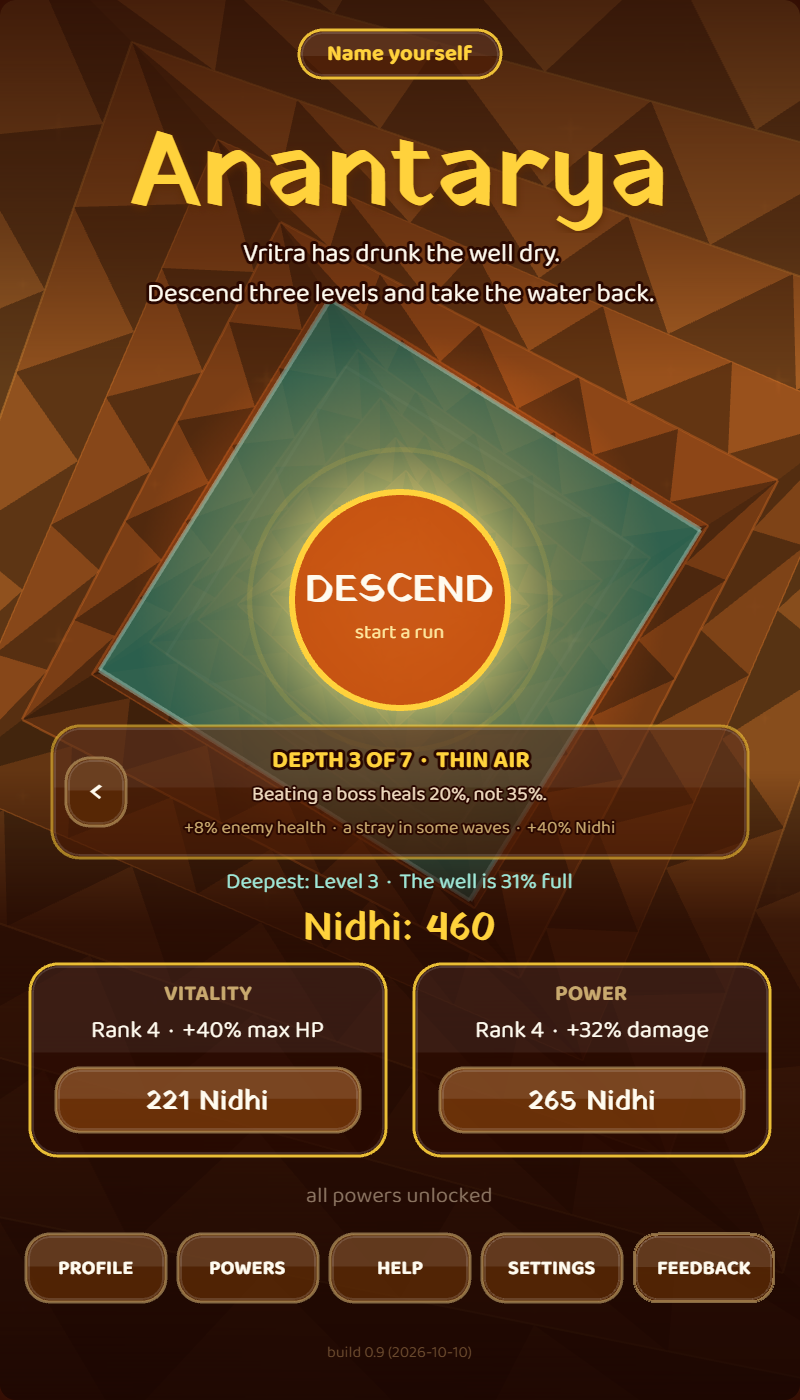
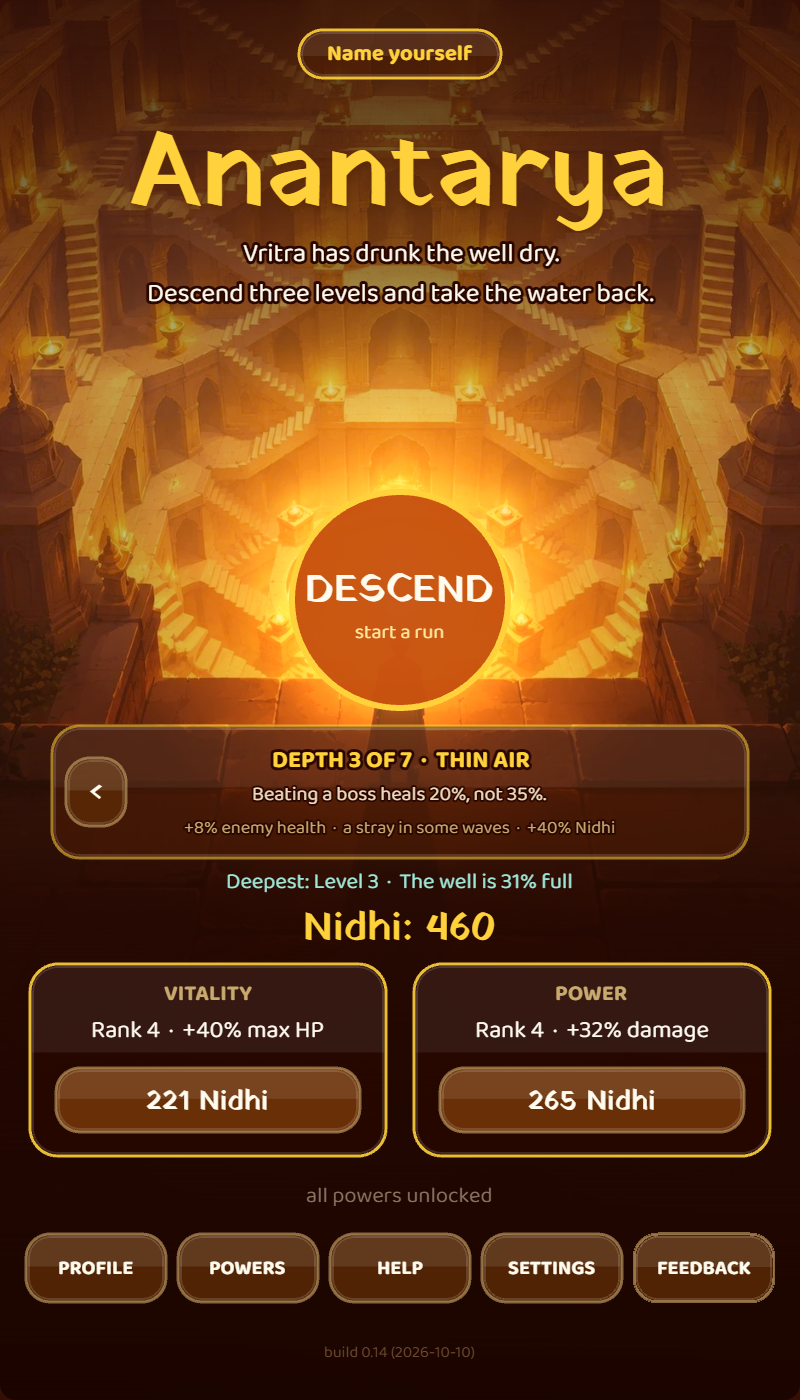
The title screen has its picture: fit 2
The founder's picture of a stepwell, made with ChatGPT, is the title
screen's backdrop. "Use fit 2": it lies behind today's layout, moved up
so its glowing pool is under DESCEND, and fades into the dark below the
ledge. The embers and the glow still move over it. If the file is
missing, the shaft drawn in code shows as before.

The store page's title screenshot is retaken, the zip is rebuilt (90
files, 2.7 MB), and the itch.io AI disclosure for graphics is now yes.

98 checks, passing on the game page and on the folder built for itch.io.
Build 0.14.

diff --git a/game/loot-chase-v0.1.html b/game/loot-chase-v0.1.html
@@ -569,7 +569,7 @@ const Loader = (() => {
 })();
 Loader.setProgress(0.04);
 
-const BUILD = '0.13 (2026-10-10)';
+const BUILD = '0.14 (2026-10-10)';
 
 // Feedback (requirements 2.21): a text box whose contents are emailed to the developer.
 // A static page cannot send mail, so the message goes through FormSubmit, a free relay
@@ -2213,6 +2213,9 @@ const FLOORS = FLOOR_SETS[new URLSearchParams(location.search).get('floors')] ||
 
 // The title screen's view down the shaft: nested square tiers shrinking toward a glowing
 // floor. `period` is the time to sink one tier; `twist` turns each tier a little more.
+// The title picture: how far it is moved up so its pool lies under the way in, and where
+// below the ledge it fades into the dark.
+const TITLE_ART = { up: 100, fadeFrom: 545, fadeOver: 60 };
 const WELL = { cy: 300, size: 540, k: 0.8, tiers: 17, steps: 5, period: 5200, twist: 0.07, shade: [1.0, 0.8, 0.6, 0.86] };
 const WELL_STOPS = [[0, 244, 184, 104], [2.5, 232, 150, 66], [5, 204, 108, 38], [7.5, 158, 68, 20], [9.5, 124, 44, 10], [11.5, 190, 78, 14], [13.5, 255, 166, 52], [16, 255, 240, 176]];
 function wellColour(depth, shade) {
@@ -2296,6 +2299,7 @@ class LootScene extends Phaser.Scene {
       this.load.spritesheet(`${name}-walk`, `assets/chars/${name}-walk.png`, { frameWidth: WALK.cell, frameHeight: WALK.cell });
     }
     this.load.image('bg_stars', 'assets/bg-stars.png');
+    this.load.image('title_art', 'assets/title-art.jpg');
     for (const [key, def] of Object.entries(SFX)) {
       for (const f of def.files || [key]) this.load.audio(f, `assets/sfx/${f}.wav`);
     }
@@ -4483,6 +4487,7 @@ class LootScene extends Phaser.Scene {
   // the descent never ends.
   drawWell(time) {
     const g = this.menu.g, cx = W / 2, cy = WELL.cy;
+    if (!g.visible) { this.menu.embers.tilePositionY += 0.5; return; }     // the title picture stands in for the drawn shaft
     const t = (time / WELL.period) % 1, sway = Math.sin(time / 4300) * 0.06;
     const corners = (r, a) => {
       const c = Math.cos(a) * r, sn = Math.sin(a) * r;
@@ -4792,6 +4797,21 @@ class LootScene extends Phaser.Scene {
     const veil = this.add.image(cx, H / 2, 'menuveil').setDisplaySize(W, H).setDepth(10.5);
     this.uiObjects.push(g, embers, glow, veil);
     this.menu = { g, embers };
+    // The title picture (requirements 2.21; the founder's own, 2026-10-10, "fit 2"): a stepwell
+    // seen from above, lit by lamps. It is moved up so that its glowing pool lies under the
+    // way in, and below the ledge it fades into the dark the menu sits on. The embers and the
+    // glow still move over it. If the file is missing, the shaft drawn in code shows instead.
+    if (this.textures.exists('title_art')) {
+      g.setVisible(false);
+      const art = this.add.image(cx, H / 2 - TITLE_ART.up, 'title_art').setDepth(10.1);
+      art.setDisplaySize(W, W * art.height / art.width);
+      const fade = this.add.graphics().setDepth(10.15);
+      fade.fillGradientStyle(FORGE.deep, FORGE.deep, FORGE.deep, FORGE.deep, 0, 0, 1, 1);
+      fade.fillRect(0, TITLE_ART.fadeFrom, W, TITLE_ART.fadeOver);
+      fade.fillStyle(FORGE.deep, 1);
+      fade.fillRect(0, TITLE_ART.fadeFrom + TITLE_ART.fadeOver, W, H);
+      this.uiObjects.push(art, fade);
+    }
     this.tweens.add({ targets: glow, scale: glow.scale * 1.14, alpha: 0.78, duration: 1600, yoyo: true, repeat: -1, ease: 'Sine.easeInOut' });
     this.drawWell(this.time.now);
 

diff --git a/tools/build-itch.py b/tools/build-itch.py
@@ -28,7 +28,7 @@ PAGE = "loot-chase-v0.1.html"
 # folders stops the build, so a stray file can never ride along unnoticed.
 TAKE = [("assets/chars", ".png"), ("assets/sfx", ".wav"), ("vendor", ".js"), ("vendor", ".md"),
         ("vendor/fonts", ".woff2"), ("vendor/fonts", ".txt")]
-SINGLE = ["assets/bg-stars.png"]
+SINGLE = ["assets/bg-stars.png", "assets/title-art.jpg"]
 # Addresses the page may name. The first is the feedback form's mail relay (requirements
 # 2.22); the second is the name of the SVG format inside a drawn background, not a request.
 ALLOWED = ["https://formsubmit.co/ajax/", "http://www.w3.org/2000/svg"]

diff --git a/docs/requirements.md b/docs/requirements.md
@@ -52,6 +52,7 @@ Kept so a reversal is never mistaken for drift or an error.
 | 2026-10-05 | **A boss shows when it can be hurt.** §2.6. | The testing round (`design-document.md` §1.4) named the first boss as the likeliest place to lose a new player: he took 12% damage unless the phase bar matched a small glow at his feet, and one tip explained it. The founder chose all four proposals: the state drawn on the boss, a countdown, a first Gatekeeper who arrives open, and a softer penalty on level 1, which they set at 30%. |
 | 2026-10-05 | **Seven depths, with perks as the rewards.** §2.30. | The same round found nothing to earn by winning. The founder chose seven depths of the well as the spine, each harder than the last, and perks earned from bosses and depths as the rewards. This settles the "seven worlds" question as depths of the one well, and builds the perks pinned as P8. A daily descent was pinned for after the itch.io launch (P9). |
 | 2026-10-05 | **Characters move; Vritra is drawn.** §2.31. | The cast is stock art with no animation frames. The founder chose motion made in code and a serpent drawn in code for now, will make the characters themselves with image tools (`docs/character-art-guide.md`), and is not ready to commission an artist. |
+| 2026-10-10 | **The title screen has its picture.** §2.21. | The founder made a picture with ChatGPT (a stepwell seen from above, lamps, a glowing pool) and was shown it behind the real title screen three ways. "Use fit 2 for the title screen." |
 | 2026-10-10 | **Tribute's summons quicken too; records are kept; badges are pinned.** §2.26, §2.37. | Told that toughness alone never threatens a player who is not touched, and asked three things, the founder answered: "1. Yes" (add the climb in speed), "2. Yes" (pin the cosmetics), "3. Yes start recording. Maybe let's design the badges tab separately in the profile section where we can keep simple badges for each kind of achievement." The cosmetics are pinned as P12 and the badges tab as P13 (`design-document.md`); neither is built. |
 | 2026-10-10 | **Tribute pays without end, and grows heavier.** §2.26, §2.36. | The first fix for a boss kept alive stopped his summons paying at tribute 15. The founder: "I don't agree with the circling a boss while killing his summons stops paying after a while. That could increase the farming potential for players looking to build before descending to the next level." Offered three ways, they picked the first: pay for as long as the boss lives, with the danger climbing. They added that this is a mechanic learnt by playing, as in Destiny 2, and that cosmetic drops for the profile screen could one day be hung on it; that idea is not pinned. |
 | 2026-10-10 | **Free rides are hunted for and closed.** §2.36. | The founder: "Also try to figure out some gameplay pseudo-cheats. For example: if a player keeps moving around the edges of the wall he stays alive even without much effort. I am not saying this is in the game right now but it could be. We need to game test this thinking of such possibilities and fix them." It was in the game. Two were real and are closed (the runner, and a boss kept alive for what he summons), three small ones are closed with them, and the rest were tried and found shut. |
@@ -515,6 +516,8 @@ Launch track L7. Each load shows **one glossary card**: the word large in Devana
 The last line states what exists today and nothing more: a full well ends the game (§2.23). What each win unlocks on the way is in §2.30. Two glossary cards, Seven depths and Perks, were added on 2026-10-05. The loader is checked to fit a sideways phone and a small phone with its tallest glossary card showing.
 
 ### 2.21 Title screen (2026-10-02)
+**Since build 0.14 (2026-10-10) the backdrop is a picture** (`game/assets/title-art.jpg`, `TITLE_ART`): the founder's own, made with ChatGPT, of a stepwell seen from above. It is laid across the screen and moved up by 100 so that its glowing pool lies under DESCEND, and from 545 down it fades into the dark that the menu sits on ("fit 2" of the three shown, `concept/title-2026-10-10-fit-*.png`). Everything else on the screen is where it was. The embers and the glow under DESCEND still move over it. The shaft drawn in code, described below, is no longer seen, and with it went the pool that rose as water was won; the line "The well is N% full" still says it. If the picture's file is missing the drawn shaft shows instead. The picture is AI-generated, which the itch.io page must say (`docs/itch-page.md` §4).
+
 Launch track L2, first design. **One screen, not two:** the title, the way into a run and the two upgrades share it, because a title in front of a separate hub would put three taps between a player and a fight. It replaces the plain menu that was drawn over the arena.
 
 - **Backdrop:** the view straight down the stepwell shaft. Seventeen square tiers of stairs shrink toward a glowing floor, each turned slightly more than the last, and the whole shaft sinks forever (a tier every 5.2 s) with embers rising.
@@ -909,4 +912,4 @@ Kept in the save from build 0.13 on, and shown nowhere yet. They exist so that t
 
 ### 2.20 Automated checks
 - **`tools/playtest-bot.js`** plays complete runs with game logic only (about 80x real time) and records per-sector balance figures, errors and leaked objects (§2.14). Since 2026-10-10 a profile can name a `style`, a player who does not play (§2.36), and **`tools/lazy-players.mjs`** runs those beside the one that does.
-- **`tools/smoke-test.mjs`** (2026-10-02) loads the game in a private, muted, headless Chrome with a throwaway profile; clicks through the loading screen; checks the fonts, the first teaching pause, the HUD, the abandon prompt, the death and extract payouts and the sector-banner cleanup; checks that all three music tracks load and that each sector paints its own floor; measures every text on the how-to, settings, Powers and title screens against its panel; checks the goal on the title screen, "Level 1 of 3" and the near-miss line, kills the final boss and confirms the win, the water and the full payout; checks that all name packs have the same entries and that the plain pack shows no Sanskrit (every boon card included); clears a wave and checks the boon pick (three cards, the fight frozen, a stray tap ignored, one reroll, the next wave), the numbers a set of boons promise, and Read the Slam on a live slam; opens the feedback dialog, types the game's own keys into it and confirms the message is posted (to a stub, so nothing is sent); checks the gold ring and arc that show on Kiran while Hold Your Ground and Read the Slam are live, and that the Boons tab lists six boons per metal clear of the Back button; checks that a cleared wave earns a boon without pausing, that the + button and the + key open the pick, that a pick can be put off without a free reroll, and that panels are frosted; checks power for gear, boons and a sleeping weapon boon, the HUD number, and the profile's stats; builds 300 waves and checks the six shapes, the no-repeat rule and the gentle first-ever opening; makes a boss summon and checks the tribute count, the extra item, the second pick and the pick before the choice screen; checks the well on the loading screen for a new save and for a save with water; checks that the first Gatekeeper arrives open, that a resisting boss says so, counts down and takes 30% on level 1 and 12% below, and that Vritra is the drawn serpent; wins a depth and checks the water, the next depth on the title screen, that a depth already won pays no water, that depth 2 is faster and richer and depth 3 heals less; checks that perks show on the profile, that two are worn and chosen by tapping, that each does what it says, and that an older save is carried into the depths, both when read in play and when the page loads with one; checks that every character but Vritra has a walk sheet, that figures keep their size, and that Kiran and an enemy step through their walk frames and stand when they stop; runs four bot profiles, one without boons; checks that the hero's health bar sits over his head; checks that the carved floors are the default and that the classic set still paints when the address asks for it; checks that an unnamed hero is "Hero" with the old name nowhere on screen, that a nickname is cleaned, saved and shown on the title screen, the profile, the victory and the loading card, and that a long one is shrunk to fit; checks the health each depth adds, that strays come at the promised rate from depth 2 and never at depth 1, and that the tribute and satchel tips wait for level 2; checks that by default the camera never moves; reloads with `?arena=wide` and checks the arena's size, that the camera follows the hero and stops at the walls, that the HUD and every panel stay on the screen, where enemies and bosses come in, the arrow to a boss out of sight, that a real tap is read where it lands, the further reach of slams and the larger waves there, and three bot runs there; reloads with `?arena=fixed` and checks that the old arena is still one screen with the camera still and nothing made harder, with two bot runs; checks the teaching pauses (§2.35): that a first run stops to teach moving once the banner has gone, that the fight is frozen and the panel is pinned to the screen and clear of what it points at, that a tap already on its way is ignored, that lessons keep apart, that the other tips never stop the fight, that the taught slam takes twice as long, and that skip, replay, the Settings switch and the bot each do what they should, and that a replayed slam lesson does not slow the slam twice; checks the free rides (§2.36): that a runner is run down after six seconds, that the pack sprints only while he runs and stops when it catches him, that fighting, heading for the nearest enemy, Hexers and bosses never start it, that tribute pays for as long as a boss lives and grows 12% heavier and 4% faster for every five past the gold boon, that records are kept and an older save gains them empty, and that a Life Gem taken off leaves the hero on 1; watches every address the page fetches from start to finish, and checks that none is on the internet and none is missing; and saves screenshots. 97 checks. Since 2026-10-07 the whole test runs in the wide arena, which is the default. `node tools/smoke-test.mjs`. Since 2026-10-10 it takes the page to test as a second argument, so the same checks run against the folder built for itch.io: `node tools/smoke-test.mjs "" dist/itch/index.html`. It needs Chrome or Edge and Node 22+, and no packages. It exists so testing never plays sound on, or takes over, the machine someone is working on.
+- **`tools/smoke-test.mjs`** (2026-10-02) loads the game in a private, muted, headless Chrome with a throwaway profile; clicks through the loading screen; checks the fonts, the first teaching pause, the HUD, the abandon prompt, the death and extract payouts and the sector-banner cleanup; checks that all three music tracks load and that each sector paints its own floor; measures every text on the how-to, settings, Powers and title screens against its panel; checks the goal on the title screen, "Level 1 of 3" and the near-miss line, kills the final boss and confirms the win, the water and the full payout; checks that all name packs have the same entries and that the plain pack shows no Sanskrit (every boon card included); clears a wave and checks the boon pick (three cards, the fight frozen, a stray tap ignored, one reroll, the next wave), the numbers a set of boons promise, and Read the Slam on a live slam; opens the feedback dialog, types the game's own keys into it and confirms the message is posted (to a stub, so nothing is sent); checks the gold ring and arc that show on Kiran while Hold Your Ground and Read the Slam are live, and that the Boons tab lists six boons per metal clear of the Back button; checks that a cleared wave earns a boon without pausing, that the + button and the + key open the pick, that a pick can be put off without a free reroll, and that panels are frosted; checks power for gear, boons and a sleeping weapon boon, the HUD number, and the profile's stats; builds 300 waves and checks the six shapes, the no-repeat rule and the gentle first-ever opening; makes a boss summon and checks the tribute count, the extra item, the second pick and the pick before the choice screen; checks the well on the loading screen for a new save and for a save with water; checks that the first Gatekeeper arrives open, that a resisting boss says so, counts down and takes 30% on level 1 and 12% below, and that Vritra is the drawn serpent; wins a depth and checks the water, the next depth on the title screen, that a depth already won pays no water, that depth 2 is faster and richer and depth 3 heals less; checks that perks show on the profile, that two are worn and chosen by tapping, that each does what it says, and that an older save is carried into the depths, both when read in play and when the page loads with one; checks that every character but Vritra has a walk sheet, that figures keep their size, and that Kiran and an enemy step through their walk frames and stand when they stop; runs four bot profiles, one without boons; checks that the hero's health bar sits over his head; checks that the carved floors are the default and that the classic set still paints when the address asks for it; checks that an unnamed hero is "Hero" with the old name nowhere on screen, that a nickname is cleaned, saved and shown on the title screen, the profile, the victory and the loading card, and that a long one is shrunk to fit; checks the health each depth adds, that strays come at the promised rate from depth 2 and never at depth 1, and that the tribute and satchel tips wait for level 2; checks that by default the camera never moves; reloads with `?arena=wide` and checks the arena's size, that the camera follows the hero and stops at the walls, that the HUD and every panel stay on the screen, where enemies and bosses come in, the arrow to a boss out of sight, that a real tap is read where it lands, the further reach of slams and the larger waves there, and three bot runs there; reloads with `?arena=fixed` and checks that the old arena is still one screen with the camera still and nothing made harder, with two bot runs; checks the teaching pauses (§2.35): that a first run stops to teach moving once the banner has gone, that the fight is frozen and the panel is pinned to the screen and clear of what it points at, that a tap already on its way is ignored, that lessons keep apart, that the other tips never stop the fight, that the taught slam takes twice as long, and that skip, replay, the Settings switch and the bot each do what they should, and that a replayed slam lesson does not slow the slam twice; checks the free rides (§2.36): that a runner is run down after six seconds, that the pack sprints only while he runs and stops when it catches him, that fighting, heading for the nearest enemy, Hexers and bosses never start it, that tribute pays for as long as a boss lives and grows 12% heavier and 4% faster for every five past the gold boon, that records are kept and an older save gains them empty, and that a Life Gem taken off leaves the hero on 1; watches every address the page fetches from start to finish, and checks that none is on the internet and none is missing; checks that the title screen shows its picture with the pool under the way in; and saves screenshots. 98 checks. Since 2026-10-07 the whole test runs in the wide arena, which is the default. `node tools/smoke-test.mjs`. Since 2026-10-10 it takes the page to test as a second argument, so the same checks run against the folder built for itch.io: `node tools/smoke-test.mjs "" dist/itch/index.html`. It needs Chrome or Edge and Node 22+, and no packages. It exists so testing never plays sound on, or takes over, the machine someone is working on.

diff --git a/docs/design-document.md b/docs/design-document.md
@@ -47,7 +47,7 @@ Founder call, 2026-09-27: gameplay is ~99% done for the POC. That meets the cond
 | # | Item | State today | Done when |
 |---|---|---|---|
 | L1 | **Game name** | **Working title: Anantarya** (founder, 2026-10-02: "will give name later"). One constant, `GAME_TITLE`, renames the loader, hub and browser tab; `index.html` carries its own copy. Earlier candidates: "Loot Chase" (generic, pre-pivot) and the repo name "Tantra" (reads as sexual/new-age to a Western audience, and is a religious practice term). One caution on the working title is logged in `requirements.md` §1.7. **Still undecided on 2026-10-06** (founder). | A final name is chosen. It still blocks L2's art and L9's store page. |
-| L2 | **Title / welcome screen** (= P1) | ⏳ **First design built 2026-10-02** (`requirements.md` §2.21): the view down a stepwell shaft, with DESCEND at the bottom of the well and the upgrades below. **Verdict, 2026-10-06: explore made art next.** `docs/art-prompts.md` §1 now has three directions with prompts, and `docs/title-art-layout.jpg` marks where the title, the button and the menu sit. Next step is the founder's: make candidate pictures and drop them in `game/assets/incoming/`; each is then fitted behind the real title screen and shown before anything is kept. The drawn shaft stays until one is chosen. **2026-10-10: the founder's first candidate** (a stepwell seen from above, lamps, a glowing pool, a small figure on the top ledge, dark stone below; pasted into the chat, kept as `game/assets/incoming/title-candidate-1.webp`, which is not in git) was fitted two ways and shown: A, dropped in behind today's layout, with the pool under DESCEND; B, the screen laid out round it, with the pool itself as the way in, the depth chooser moved up under the opening lines so the figure is seen, and the pool dimmed by the water still missing, so a new player's well is dark and a full one blazes (`concept/title-2026-10-10-candidate-1-mocks.jpg`, `-water.jpg`). Nothing in the game has changed. Told to the founder: the picture is 940 pixels wide and is enlarged on a phone, so a larger export is wanted; the moving stairwell of the drawn screen would be lost; which tool made it decides whether it may be used commercially; and the AI disclosure for graphics becomes yes when it goes in. **Founder's answer, same day: B, but the top half was too dark to show the stairwell, keep the drifting embers and the pulsing glow; made with ChatGPT.** B was re-shot with the picture's shadows lifted in its upper half and a lighter veil (`concept/title-2026-10-10-candidate-1-B-lifted.jpg`); nothing in the game has changed yet. Waiting on: approval of the lifted version, and a larger file. | A Cosmic Forge title screen with the name, art and a Start that leads into the hub. |
+| L2 | **Title / welcome screen** (= P1) | ⏳ **First design built 2026-10-02** (`requirements.md` §2.21): the view down a stepwell shaft, with DESCEND at the bottom of the well and the upgrades below. **Verdict, 2026-10-06: explore made art next.** `docs/art-prompts.md` §1 now has three directions with prompts, and `docs/title-art-layout.jpg` marks where the title, the button and the menu sit. Next step is the founder's: make candidate pictures and drop them in `game/assets/incoming/`; each is then fitted behind the real title screen and shown before anything is kept. The drawn shaft stays until one is chosen. **2026-10-10: the founder's first candidate** (a stepwell seen from above, lamps, a glowing pool, a small figure on the top ledge, dark stone below; pasted into the chat, kept as `game/assets/incoming/title-candidate-1.webp`, which is not in git) was fitted two ways and shown: A, dropped in behind today's layout, with the pool under DESCEND; B, the screen laid out round it, with the pool itself as the way in, the depth chooser moved up under the opening lines so the figure is seen, and the pool dimmed by the water still missing, so a new player's well is dark and a full one blazes (`concept/title-2026-10-10-candidate-1-mocks.jpg`, `-water.jpg`). Nothing in the game has changed. Told to the founder: the picture is 940 pixels wide and is enlarged on a phone, so a larger export is wanted; the moving stairwell of the drawn screen would be lost; which tool made it decides whether it may be used commercially; and the AI disclosure for graphics becomes yes when it goes in. **Founder's answer, same day: B, but the top half was too dark to show the stairwell, keep the drifting embers and the pulsing glow; made with ChatGPT.** B was re-shot with the picture's shadows lifted in its upper half and a lighter veil (`concept/title-2026-10-10-candidate-1-B-lifted.jpg`); nothing in the game has changed yet. Waiting on: approval of the lifted version, and a larger file. **Later the same day, in the other of the founder's two sessions, they chose otherwise: "Use fit 2 for the title screen."** Fit 2 is the picture behind today's layout, moved up so its pool lies under DESCEND and fading into the dark below the ledge (`concept/title-2026-10-10-fit-2-pool-under-descend.png`). ✅ **Built as build 0.14** (`requirements.md` §2.21). Layout B is not built; that session's unfinished work on it was left as it was. Still wanted: a larger export of the picture (it is 940 pixels wide and a phone enlarges it by about a quarter). | A Cosmic Forge title screen with the name, art and a Start that leads into the hub. |
 | L3 | **How to play** | ✅ **Built 2026-09-27**: illustrated cards (`requirements.md` §2.12.2), ten since The Goal, Boons and Depths · Perks were added. | A help page reachable from the title and the hub. |
 | L4 | **First-run tutorial** (= P3) | ✅ **Built 2026-09-27**: 14 one-time live tips, skippable (§2.12.1). **2026-10-10: the founder wants it stronger before launch; see L12.** | Wave 1 of a player's first run teaches movement, loot, the satchel and slams live. |
 | L5 | **Audio** | ⏳ 37 sound effects are in. **Music was switched off on 2026-10-02**: the founder heard it and the tracks, and above all the transitions, did not suit the game (`requirements.md` §2.16). The engine and files remain; the approach needs rethinking. **The founder likes the sound effects** (2026-10-03: "I liked the gameplay sounds and effects"); they had gone silent on an iPhone when the music was switched off and were restored the same day (`requirements.md` §2.16). **2026-10-05: music stays off for the launch.** The founder judged free tracks not good enough and will consider buying music after the itch.io launch (P10). The POC ships with sound effects only. **2026-10-06: the founder confirmed the sound effects work on their phone.** | Free SFX (hits, slams, pickups, Tejas) plus Indian-flavoured music, with a mute toggle. |

diff --git a/docs/itch-page.md b/docs/itch-page.md
@@ -17,7 +17,7 @@ creating the itch.io account and signing in cannot be done for them.
 
 | File | What it is | Where it goes |
 |---|---|---|
-| `dist/anantarya-0.13-itch.zip` | The game: 89 files, 2.5 MB. Made by `python tools/build-itch.py` | Uploads |
+| `dist/anantarya-0.14-itch.zip` | The game: 90 files, 2.7 MB. Made by `python tools/build-itch.py` | Uploads |
 | `store/itch/cover-draft.png` | Cover, 630 by 500. **A draft: it carries the working title** | Cover image |
 | `store/itch/1-title.png` | The title screen, the well part filled | Screenshots, in this order |
 | `store/itch/2-drowned-steps.png` | A fight on level 2 | |
@@ -120,7 +120,7 @@ it is; players can filter on it, and a wrong answer is worse than a filtered pag
 |---|---|---|
 | Code | Yes | The game's code was written with an AI assistant |
 | Text and dialogue | Yes | The in-game text was drafted with an AI assistant and edited by the founder |
-| Graphics | No, today | Characters are CraftPix stock art; floors, effects and the serpent are drawn by code. **This becomes Yes the day a generated title picture or generated hero art goes in** |
+| Graphics | **Yes**, since build 0.14 | The title screen's picture was made by the founder with ChatGPT. Characters are CraftPix stock art; floors, effects and the serpent are drawn by code |
 | Sound | No | Kenney's recorded effects. Music, if bought later, is to be checked the same way |
 
 ## 5. After the upload, while the page is still a draft

diff --git a/game/assets/CREDITS.md b/game/assets/CREDITS.md
@@ -160,3 +160,11 @@ than stars in space.
 The rest of that pass — `player.png`, `enemy-melee/ranged/tank/splitter.png` — was
 removed when the CraftPix roster landed. Those were sci-fi ships and grey meteors on
 dark purple and satisfied none of the Cosmic Forge direction.
+
+## Title picture (`title-art.jpg`)
+
+Made by the founder on 2026-10-10 with ChatGPT's image generation, from their own
+prompt: a stepwell seen from above, lit by lamps, with a glowing pool at the bottom and a
+small figure on the top ledge. 940 x 1672. It is AI-generated, and the itch.io page says
+so. OpenAI's terms give the person who made an image the rights to it, including to use
+it commercially; that is to be read again on OpenAI's own page in the pre-launch pass.
